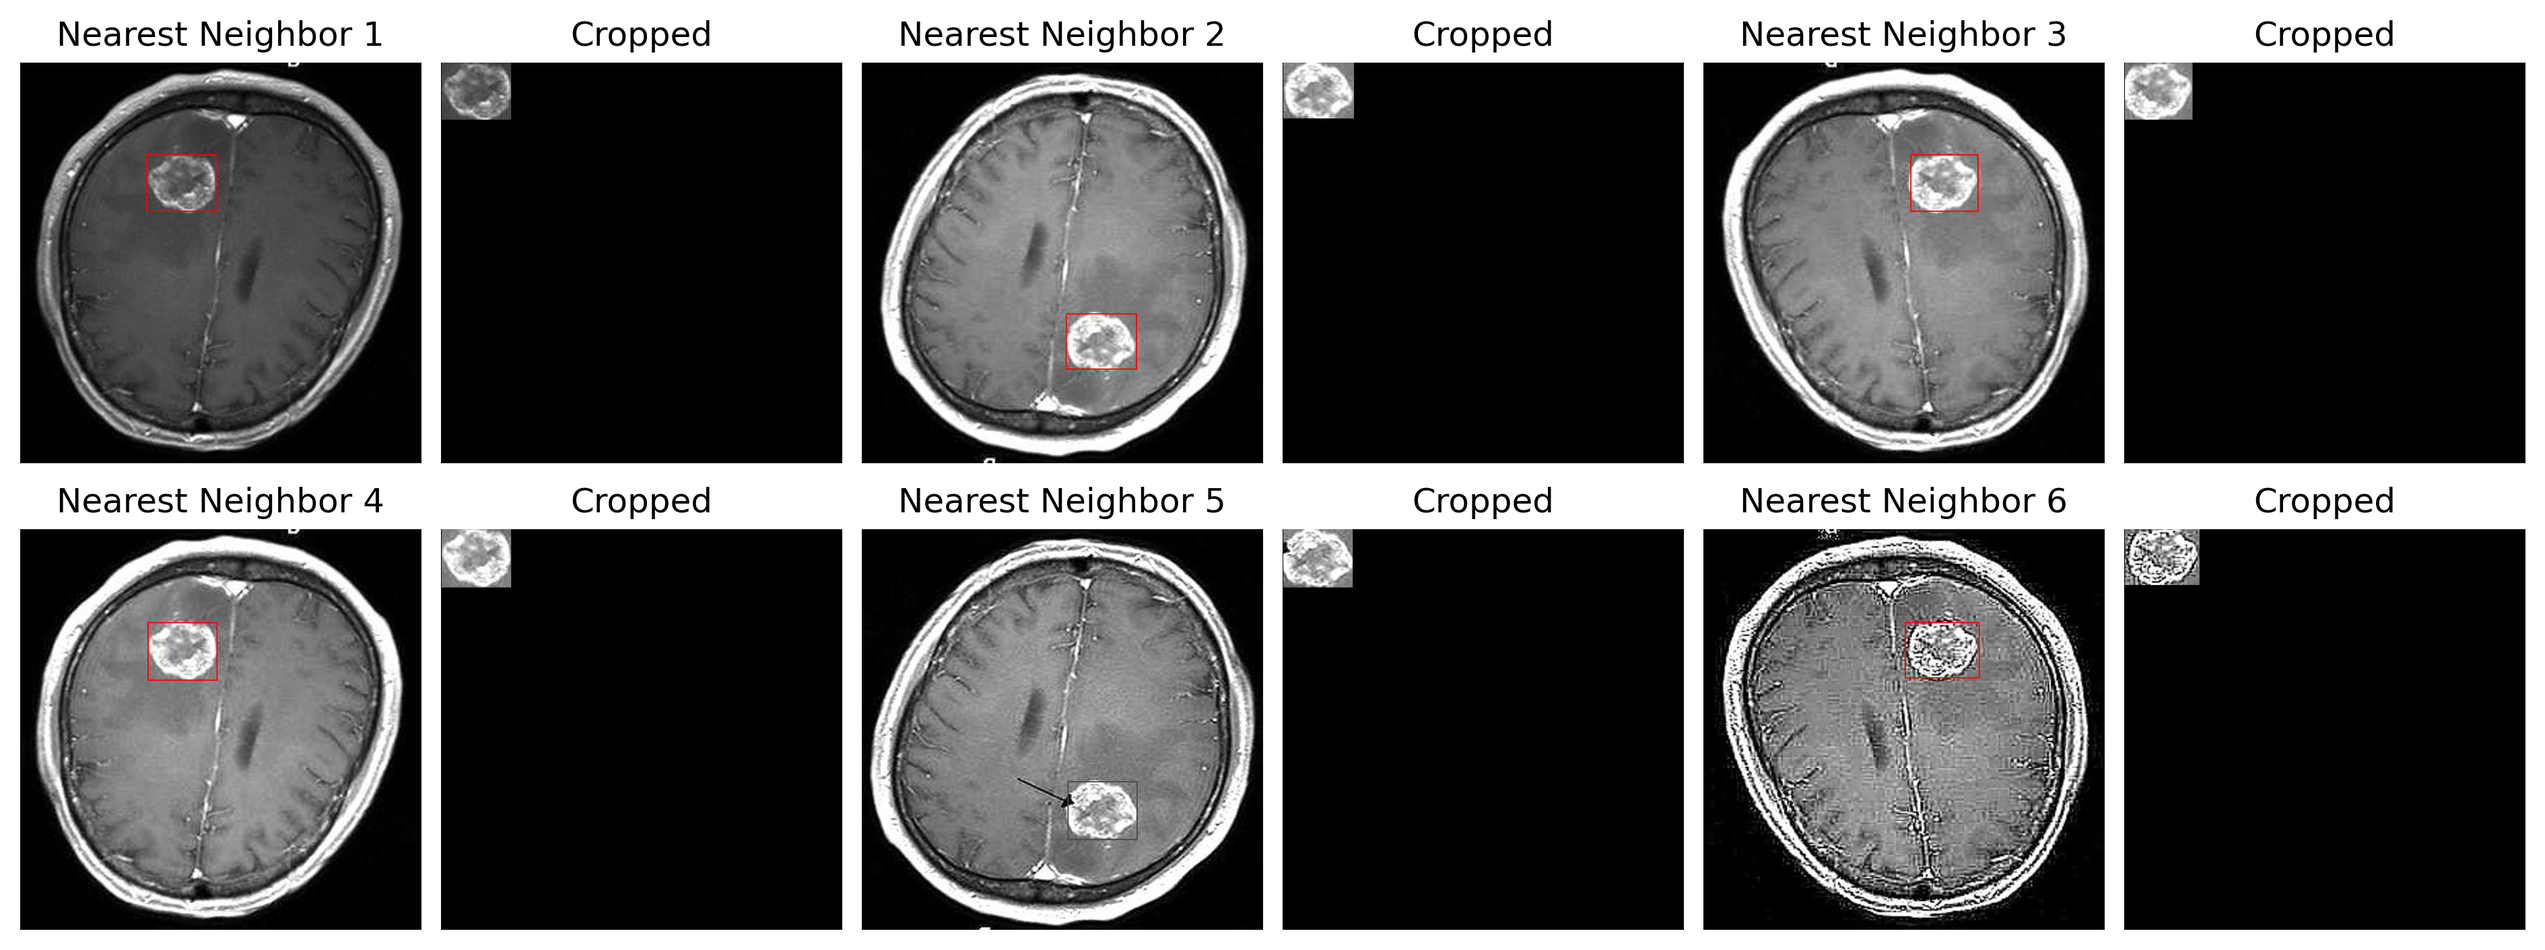
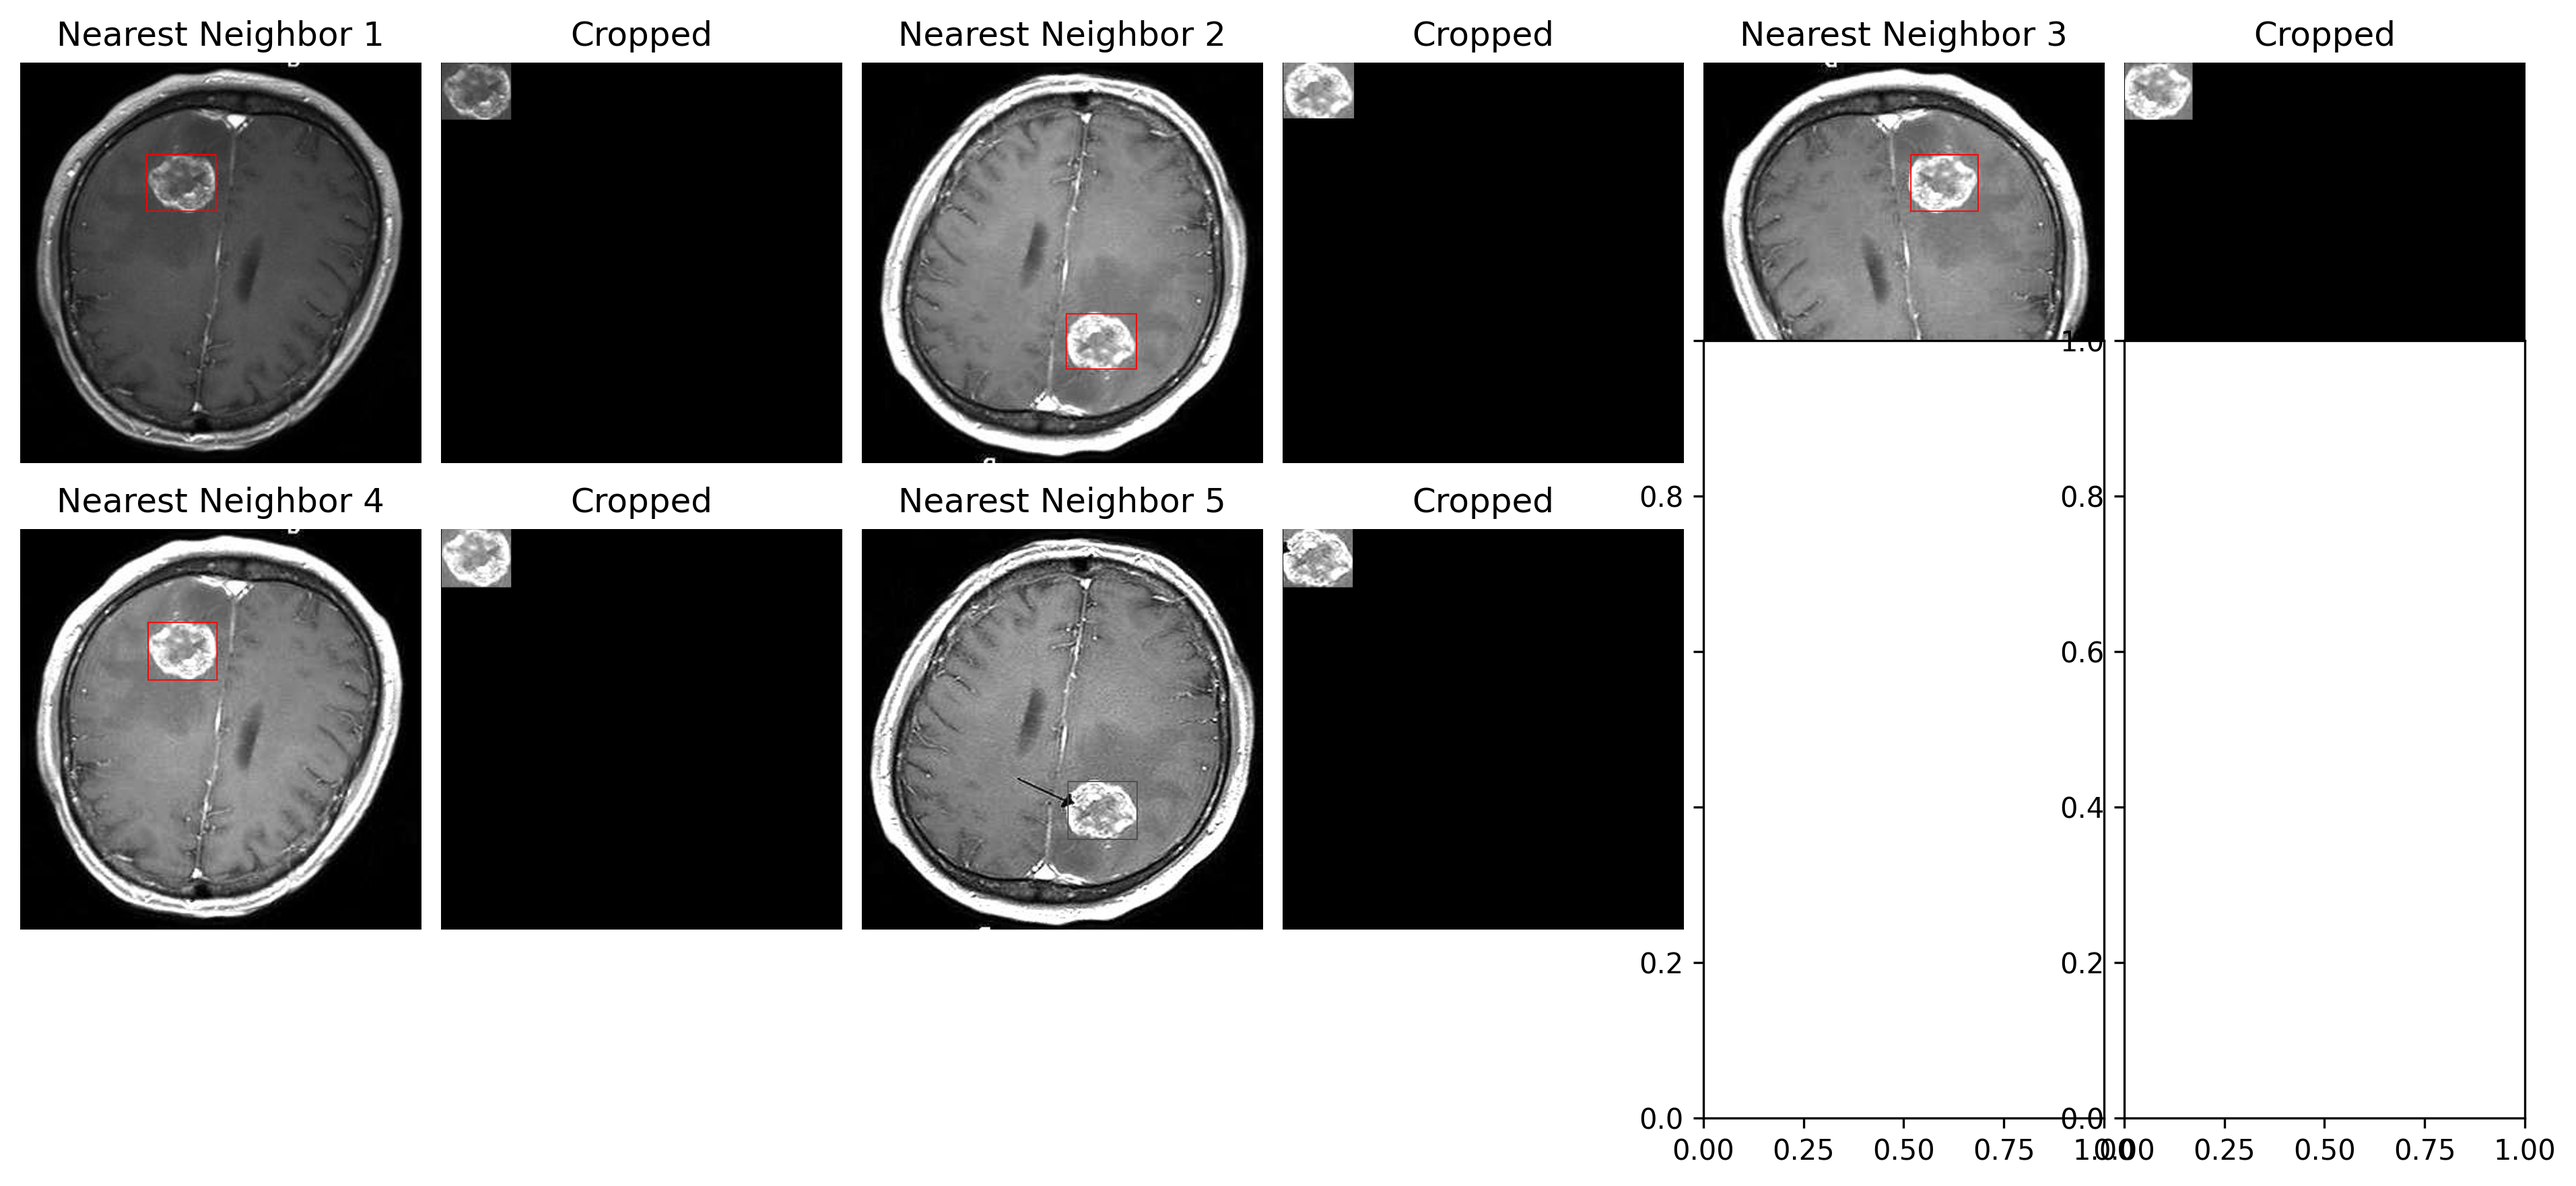
updated class diagram

diff --git a/Interpretable_Classes/yolov8_interpretable.py b/Interpretable_Classes/yolov8_interpretable.py
@@ -183,13 +183,6 @@ class InterpretableYOLOTest:
             cropped_image_np = cropped_image_np * 0.5 + 0.5
             cropped_image_np = np.clip(cropped_image_np, 0, 1)
 
-            # Display the cropped image
-            #plt.figure(figsize=(8, 8))
-            #plt.title("Inference Image Cropped")
-            #plt.imshow(cropped_image_np, cmap='gray')  
-            #plt.axis('off')
-            #plt.show()
-
             cropped_image = cropped_image.to(self.device)
 
             # Forward pass with the cropped image to get features from the target layer
@@ -313,16 +306,20 @@ class InterpretableYOLOTest:
         return overall_correlation_score
 
 def main():
-    data = '/home/alan/Documents/YOLOV8_interpretable/Dataset_1/brain-tumor-detection-dataset/Br35H-Mask-RCNN/data.yaml'
-    weights = '/home/alan/Documents/YOLOV8_interpretable/YOLOv8_weights/yolov8m_br35h.pt'
-    model = YOLO(weights)
+    '''
+    data_yaml_path = 'path/to/data.yaml'
+    weights_path = 'path/to/weights.pt'
+    weights = torch.load(model_path)
+    weights =  model['model'].float()
+    weights.eval() 
+    target_layer_index = 210 # default parameter value for InterpretableYOLOTest
+    pca_components = 30 # default parameter value for InterpretableYOLOTest
 
-    model = InterpretableYOLOTest(data, model, target_layer_index=76)
-    
-    directory_path = '/home/alan/Documents/YOLOV8_interpretable/Dataset_1/brain-tumor-detection-dataset/Br35H-Mask-RCNN/test/images'
-    #results = model.iterate_directory_inference(directory_path, k=3)
-    #for result in results:
-        #print(result)
+    model = InterpretableYOLOTest(data_yaml_path, model=weights, target_layer_index=target_layer_index, pca_components=pca_components)
 
-#if __name__ == "__main__":
-    #main()
+    image_path = 'path/to/inference/image'
+    k = 6 # k nearest neighbors
+    result = model.single_image_inference(image_path, k=k)
+    print(result)
+
+    '''
